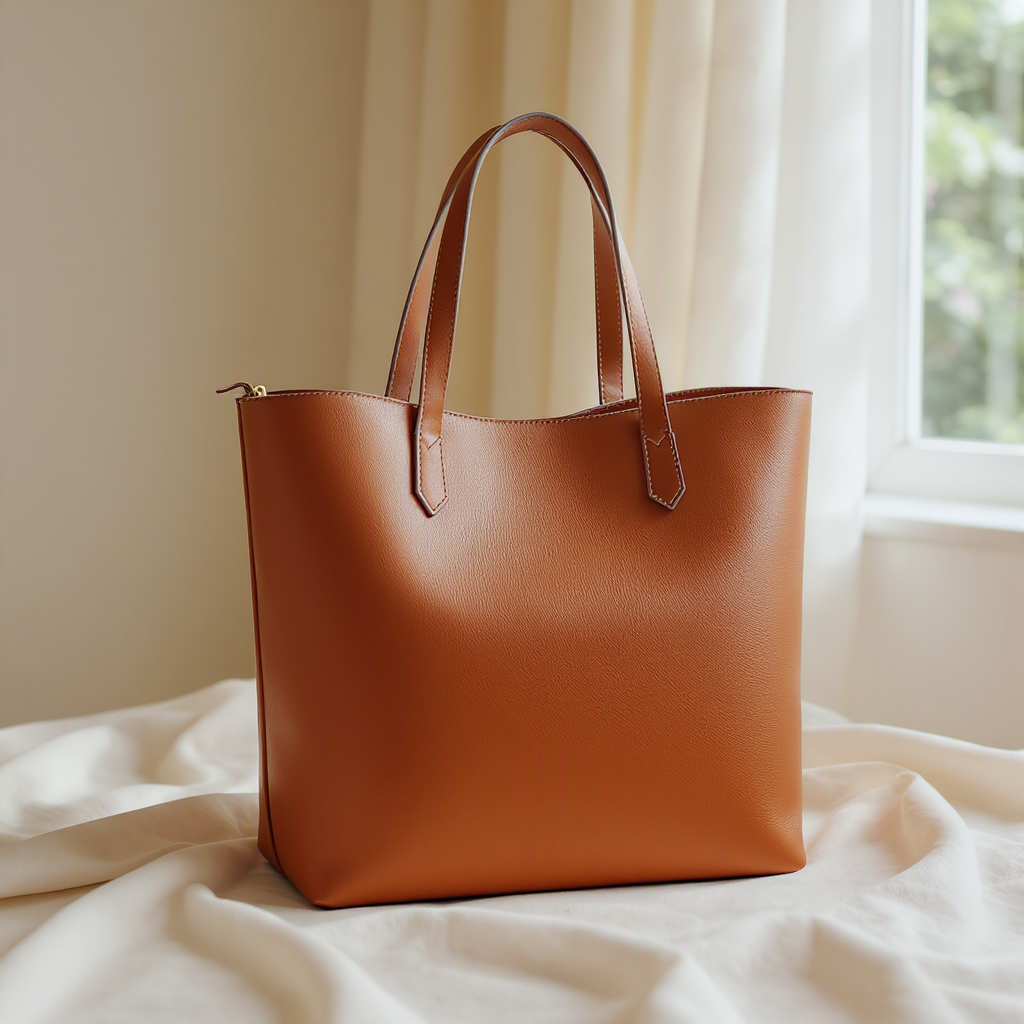
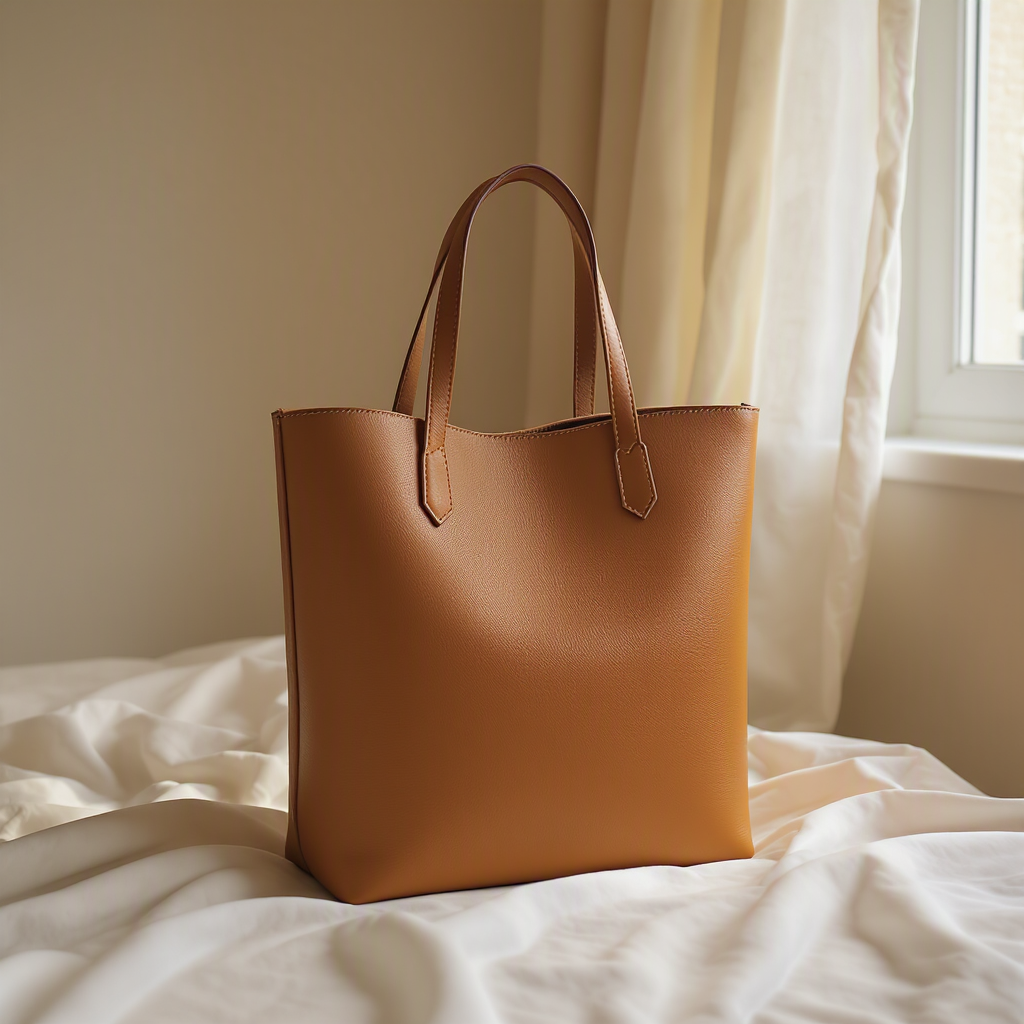
Final landing page

diff --git a/src/index.css b/src/index.css
@@ -1,6 +1,6 @@
 @import "tailwindcss";
 
-@custom-variant dark (&:is(.dark *));
+@custom-variant dark (&:where(.dark, .dark *));
 
 @theme inline {
   /* Color tokens */
@@ -66,6 +66,7 @@
 
 :root {
   --background: oklch(0.9911 0 0);
+  --bg: var(--background);
   --foreground: oklch(0.1994 0.0470 270.6494);
   --card: oklch(0.9851 0 0);
   --card-foreground: oklch(0.1994 0.0470 270.6494);
@@ -105,38 +106,39 @@
 }
 
 .dark {
-  --background: oklch(0.22 0.02 270);
-  --foreground: oklch(0.68 0.01 270);
-  --card: oklch(0.24 0.02 270);
-  --card-foreground: oklch(0.68 0.01 270);
-  --popover: oklch(0.24 0.02 270);
-  --popover-foreground: oklch(0.68 0.01 270);
-  --primary: oklch(0.5729 0.2337 264.3664);
-  --primary-foreground: oklch(1 0 0);
-  --secondary: oklch(0.3 0.02 270);
-  --secondary-foreground: oklch(0.68 0.01 270);
-  --muted: oklch(0.28 0.02 270);
-  --muted-foreground: oklch(0.55 0.01 270);
-  --accent: oklch(0.28 0.02 270);
-  --accent-foreground: oklch(0.5729 0.2337 264.3664);
-  --destructive: oklch(0.7058 0.1918 39.5760);
-  --destructive-foreground: oklch(1 0 0);
-  --border: oklch(0.3 0.02 270);
-  --input: oklch(0.35 0.02 270);
-  --ring: oklch(0.5784 0.2303 263.8862);
-  --chart-1: oklch(0.5729 0.2337 264.3664);
-  --chart-2: oklch(0.7677 0.1312 194.1427);
-  --chart-3: oklch(0.9649 0.1962 111.4216);
-  --chart-4: oklch(0.8439 0.1679 169.5646);
-  --chart-5: oklch(0.6411 0.2446 28.5713);
-  --sidebar: oklch(0.22 0.02 270);
-  --sidebar-foreground: oklch(0.68 0.01 270);
-  --sidebar-primary: oklch(0.5729 0.2337 264.3664);
-  --sidebar-primary-foreground: oklch(1 0 0);
-  --sidebar-accent: oklch(0.28 0.02 270);
-  --sidebar-accent-foreground: oklch(0.68 0.01 270);
-  --sidebar-border: oklch(0.3 0.02 270);
-  --sidebar-ring: oklch(0.5784 0.2303 263.8862);
+  --background: #1A1917;
+  --bg: var(--background);
+  --foreground: #FAF9F6;
+  --card: #242320;
+  --card-foreground: #FAF9F6;
+  --popover: #242320;
+  --popover-foreground: #FAF9F6;
+  --primary: #C9A87C;
+  --primary-foreground: #1A1917;
+  --secondary: #242320;
+  --secondary-foreground: #FAF9F6;
+  --muted: #242320;
+  --muted-foreground: #A8A7A4;
+  --accent: #242320;
+  --accent-foreground: #FAF9F6;
+  --destructive: #E57373;
+  --destructive-foreground: #FAF9F6;
+  --border: rgba(250, 249, 246, 0.12);
+  --input: #2E2C29;
+  --ring: rgba(250, 249, 246, 0.25);
+  --chart-1: #C9A87C;
+  --chart-2: #A8A7A4;
+  --chart-3: #8D8B88;
+  --chart-4: #726F6B;
+  --chart-5: #575450;
+  --sidebar: #1A1917;
+  --sidebar-foreground: #FAF9F6;
+  --sidebar-primary: #C9A87C;
+  --sidebar-primary-foreground: #1A1917;
+  --sidebar-accent: #242320;
+  --sidebar-accent-foreground: #FAF9F6;
+  --sidebar-border: rgba(250, 249, 246, 0.12);
+  --sidebar-ring: rgba(250, 249, 246, 0.25);
 }
 
 @layer base {

diff --git a/src/pages/landing1/ThemeToggle.jsx b/src/pages/landing1/ThemeToggle.jsx
@@ -1,0 +1,81 @@
+import { useState } from 'react'
+
+/**
+ * ThemeToggle
+ * Contract: ThemeToggle(): JSX.Element
+ *
+ * Accessible dark/light theme toggle.
+ * - Reads initial mode from the document root class
+ * - Toggles the .dark class and persists the choice to localStorage
+ */
+function ThemeToggle() {
+  const [isDark, setIsDark] = useState(() =>
+    document.documentElement.classList.contains('dark')
+  )
+
+  const toggleTheme = () => {
+    const next = !isDark
+    setIsDark(next)
+
+    const root = document.documentElement
+    if (next) {
+      root.classList.add('dark')
+      localStorage.theme = 'dark'
+    } else {
+      root.classList.remove('dark')
+      localStorage.theme = 'light'
+    }
+  }
+
+  return (
+    <button
+      type="button"
+      onClick={toggleTheme}
+      className="inline-flex items-center justify-center rounded-md p-2 text-muted-foreground hover:text-foreground transition-colors focus-visible:outline-none focus-visible:ring-2 focus-visible:ring-ring"
+      aria-label={isDark ? 'Switch to light mode' : 'Switch to dark mode'}
+      aria-pressed={isDark}
+    >
+      {isDark ? (
+        <svg
+          xmlns="http://www.w3.org/2000/svg"
+          width="20"
+          height="20"
+          viewBox="0 0 24 24"
+          fill="none"
+          stroke="currentColor"
+          strokeWidth="1.5"
+          strokeLinecap="round"
+          strokeLinejoin="round"
+          aria-hidden="true"
+        >
+          <circle cx="12" cy="12" r="4" />
+          <path d="M12 2v2" />
+          <path d="M12 20v2" />
+          <path d="m4.93 4.93 1.41 1.41" />
+          <path d="m17.66 17.66 1.41 1.41" />
+          <path d="M2 12h2" />
+          <path d="M20 12h2" />
+          <path d="m6.34 17.66-1.41 1.41" />
+          <path d="m19.07 4.93-1.41 1.41" />
+        </svg>
+      ) : (
+        <svg
+          xmlns="http://www.w3.org/2000/svg"
+          width="20"
+          height="20"
+          viewBox="0 0 24 24"
+          fill="none"
+          stroke="currentColor"
+          strokeWidth="1.5"
+          strokeLinecap="round"
+          strokeLinejoin="round"
+          aria-hidden="true"
+        >
+          <path d="M12 3a6 6 0 0 0 9 9 9 9 0 1 1-9-9Z" />
+        </svg>
+      )}
+    </button>
+  )
+}
+
+export default ThemeToggle

diff --git a/src/pages/landing1/Hero.jsx b/src/pages/landing1/Hero.jsx
@@ -6,7 +6,7 @@
  * - 64px left-aligned headline
  * - 18px subheading
  * - Primary + secondary CTAs at 16px
- * - Elegant SVG visual placeholder
+ * - Editorial hero image
  */
 function Hero() {
   return (
@@ -36,45 +36,13 @@ function Hero() {
           </div>
         </div>
 
-        <div className="w-full lg:w-1/2" aria-hidden="true">
-          <svg
-            xmlns="http://www.w3.org/2000/svg"
-            viewBox="0 0 560 420"
-            fill="none"
-            className="h-auto w-full rounded-sm"
-          >
-            <rect width="560" height="420" rx="16" fill="var(--muted)" />
-            <path
-              d="M80 340c40-80 120-140 200-140s160 60 200 140"
-              stroke="var(--border)"
-              strokeWidth="1.5"
-              strokeLinecap="round"
-            />
-            <path
-              d="M140 340c30-50 90-90 140-90s110 40 140 90"
-              stroke="var(--border)"
-              strokeWidth="1.5"
-              strokeLinecap="round"
-            />
-            <circle cx="280" cy="160" r="72" stroke="var(--primary)" strokeWidth="1.5" />
-            <path
-              d="M248 160c0-24 14-44 32-44s32 20 32 44-14 44-32 44-32-20-32-44Z"
-              fill="var(--primary)"
-              fillOpacity="0.12"
-            />
-            <path
-              d="M280 88v-24M236 112l-17-17M324 112l17-17"
-              stroke="var(--primary)"
-              strokeWidth="1.5"
-              strokeLinecap="round"
-            />
-            <path
-              d="M200 260h160M200 276h120M200 292h80"
-              stroke="var(--border)"
-              strokeWidth="1.5"
-              strokeLinecap="round"
-            />
-          </svg>
+        <div className="w-full lg:w-1/2">
+          <img
+            src="/images/hero.jpg"
+            alt="Handcrafted leather goods hero image"
+            className="aspect-[4/3] w-full rounded-sm object-cover"
+            loading="eager"
+          />
         </div>
       </div>
     </section>

diff --git a/src/pages/landing1/Card.jsx b/src/pages/landing1/Card.jsx
@@ -1,24 +1,35 @@
 /**
  * Card primitive
- * Contract: Card({ children, ...props }): JSX.Element
+ * Contract: Card({ children, image, imageAlt, ...props }): JSX.Element
  *
  * Minimal editorial card container for HEIRLOOM.
  * - Subtle border and shadow
  * - Rounded corners using the theme radius
  * - Clean background that sits on the page background
+ * - Optional image header with consistent aspect ratio and object-cover
  */
-function Card({ children, className = '', ...props }) {
+function Card({ children, image, imageAlt = '', className = '', ...props }) {
   return (
     <div
       className={[
-        'rounded-lg border border-border bg-card p-6 text-card-foreground shadow-sm',
+        'overflow-hidden rounded-lg border border-border bg-card text-card-foreground shadow-sm',
         className,
       ]
         .filter(Boolean)
         .join(' ')}
       {...props}
     >
-      {children}
+      {image && (
+        <div className="aspect-[4/5] w-full overflow-hidden">
+          <img
+            src={image}
+            alt={imageAlt}
+            className="h-full w-full object-cover"
+            loading="lazy"
+          />
+        </div>
+      )}
+      <div className="p-6">{children}</div>
     </div>
   )
 }

diff --git a/src/pages/landing1/Newsletter.jsx b/src/pages/landing1/Newsletter.jsx
@@ -6,11 +6,29 @@
  * - No background box, no border container
  * - Inline flex form with bottom-border-only input
  * - Minimal submit button, generous whitespace
+ * - Refined inline envelope illustration suggesting mail and exclusivity
  */
 function Newsletter() {
   return (
     <section className="py-24 px-6" aria-labelledby="newsletter-heading">
       <div className="max-w-xl mx-auto text-center">
+        <svg
+          width="64"
+          height="64"
+          viewBox="0 0 64 64"
+          fill="none"
+          stroke="currentColor"
+          strokeWidth="1.5"
+          strokeLinecap="round"
+          strokeLinejoin="round"
+          className="mx-auto mb-8 text-muted-foreground/50"
+          aria-hidden="true"
+        >
+          <rect x="10" y="20" width="44" height="28" rx="1" />
+          <path d="M10 20L32 36L54 20" />
+          <circle cx="32" cy="36" r="3.5" />
+          <path d="M30 36H34" />
+        </svg>
         <h2
           id="newsletter-heading"
           className="font-serif text-2xl md:text-3xl font-light tracking-tight text-foreground"

diff --git a/src/pages/landing1/Collection.jsx b/src/pages/landing1/Collection.jsx
@@ -54,12 +54,12 @@ function ProductCard({ name, price, badge, image }) {
  */
 function Collection() {
   const products = [
-    { name: 'Heritage Tote', price: '$480', badge: 'New' },
-    { name: 'Atelier Briefcase', price: '$720' },
-    { name: 'Weekender Duffle', price: '$640', badge: 'Limited' },
-    { name: 'Slim Card Wallet', price: '$120' },
-    { name: 'Field Belt', price: '$195', badge: 'New' },
-    { name: 'Daily Crossbody', price: '$360' },
+    { name: 'Heritage Tote', price: '$480', badge: 'New', image: '/images/collection-1.jpg' },
+    { name: 'Atelier Briefcase', price: '$720', image: '/images/collection-2.jpg' },
+    { name: 'Weekender Duffle', price: '$640', badge: 'Limited', image: '/images/collection-3.jpg' },
+    { name: 'Slim Card Wallet', price: '$120', image: '/images/collection-1.jpg' },
+    { name: 'Field Belt', price: '$195', badge: 'New', image: '/images/collection-2.jpg' },
+    { name: 'Daily Crossbody', price: '$360', image: '/images/collection-3.jpg' },
   ]
 
   return (

diff --git a/src/pages/landing1/Marquee.jsx b/src/pages/landing1/Marquee.jsx
@@ -28,9 +28,16 @@ function Marquee() {
             <span className="font-sans text-sm uppercase tracking-widest text-muted-foreground">
               {value}
             </span>
-            <span className="text-muted-foreground/40" aria-hidden="true">
-              |
-            </span>
+            <svg
+              width="4"
+              height="4"
+              viewBox="0 0 4 4"
+              fill="currentColor"
+              className="text-muted-foreground/40"
+              aria-hidden="true"
+            >
+              <circle cx="2" cy="2" r="2" />
+            </svg>
           </span>
         ))}
       </div>

diff --git a/src/App.jsx b/src/App.jsx
@@ -1,8 +1,20 @@
+import { useEffect } from 'react'
 import { BrowserRouter, Routes, Route } from 'react-router-dom'
 import Home from './pages/Home'
 import LandingPage from './pages/landing1/LandingPage'
 
 function App() {
+  useEffect(() => {
+    const root = document.documentElement
+    const stored = localStorage.theme
+
+    if (stored === 'dark' || stored === 'light') {
+      root.classList.toggle('dark', stored === 'dark')
+    } else if (window.matchMedia('(prefers-color-scheme: dark)').matches) {
+      root.classList.add('dark')
+    }
+  }, [])
+
   return (
     <BrowserRouter>
       <Routes>

diff --git a/src/pages/landing1/Header.jsx b/src/pages/landing1/Header.jsx
@@ -1,3 +1,5 @@
+import ThemeToggle from './ThemeToggle'
+
 /**
  * Header
  * Contract: Header(): JSX.Element
@@ -44,6 +46,7 @@ function Header() {
         </ul>
 
         <div className="flex items-center gap-4">
+          <ThemeToggle />
           <a
             href="#cart"
             className="text-muted-foreground hover:text-foreground transition-colors"

diff --git a/src/pages/landing1/Craftsmanship.jsx b/src/pages/landing1/Craftsmanship.jsx
@@ -38,7 +38,7 @@ function Craftsmanship() {
           <img
             src="/images/craftsmanship.jpg"
             alt="Artisan hand-stitching leather in the atelier"
-            className="w-full rounded-sm object-cover"
+            className="aspect-square w-full rounded-sm object-cover"
             loading="lazy"
           />
         </div>
